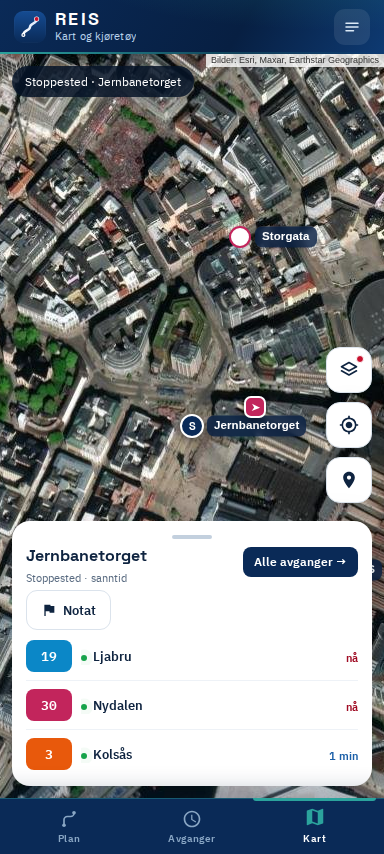
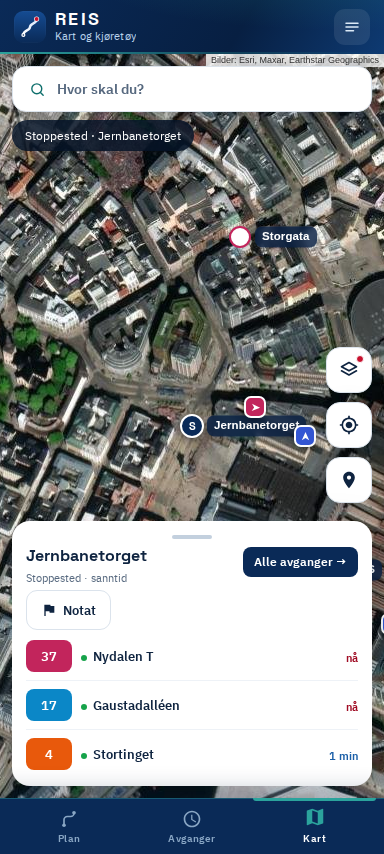
Add files via upload

diff --git a/index.html b/index.html
@@ -489,7 +489,7 @@ a{color:inherit}
 /* FIX: hintet lå på top:14px, altså rett oppå modusraden. Toppen av kartet
    stables nå etter målt høyde, på samme måte som bunnen. */
 #viewMap{--top-h:0px}
-#mapHint{position:absolute;left:50%;top:calc(12px + var(--top-h));transform:translateX(-50%);z-index:1056;
+#mapHint{position:absolute;left:50%;top:calc(12px + var(--top-h) + var(--bar-h));transform:translateX(-50%);z-index:1056;
   background:rgba(7,31,66,.86);color:#fff;font-size:12px;font-weight:600;padding:8px 14px;border-radius:999px;
   backdrop-filter:blur(6px);pointer-events:none;animation:viewIn .3s ease}
 /* Posisjonsknappen lyser når «følg meg» er på */
@@ -504,12 +504,15 @@ a{color:inherit}
 .mb-btn svg{width:17px;height:17px;flex:0 0 auto;display:block}
 .mb-btn.on{background:var(--navy);color:#fff;box-shadow:var(--sh-1)}
 .mb-btn.on svg{color:var(--tab-2)}
-#mapCtxChip{position:absolute;top:calc(12px + var(--top-h) + var(--hint-h,0px));left:12px;z-index:1040;background:var(--navy);color:#fff;font-size:12px;padding:8px 13px;border-radius:999px;box-shadow:var(--sh-2);display:flex;gap:7px;align-items:center;max-width:72%;white-space:nowrap;overflow:hidden;text-overflow:ellipsis}
+#mapCtxChip{position:absolute;top:calc(12px + var(--top-h) + var(--bar-h) + var(--hint-h));left:12px;z-index:1040;background:var(--navy);color:#fff;font-size:12px;padding:8px 13px;border-radius:999px;box-shadow:var(--sh-2);display:flex;gap:7px;align-items:center;max-width:72%;white-space:nowrap;overflow:hidden;text-overflow:ellipsis}
 #mapCtxChip b{font-family:var(--font-m)}
 /* Kartkortet, lagvelgeren og knappene lå alle forankret til bunnen med faste
    pikselverdier – derfor la de seg oppå hverandre. Nå stables de: --card-h og
    --layer-h måles i JS, og alt over regner seg ut fra dem. */
-#viewMap{--card-h:0px;--layer-h:0px;--top-h:0px;--hint-h:0px}
+/* Toppen av kartet er en stabel. Hvert element legger seg under det forrige,
+   etter MÅLT høyde – ellers havner de oppå hverandre så snart ett av dem
+   endrer størrelse eller dukker opp. */
+#viewMap{--card-h:0px;--layer-h:0px;--top-h:0px;--bar-h:0px;--hint-h:0px;--ctx-h:0px}
 .fabs{position:absolute;right:12px;z-index:1050;display:flex;flex-direction:column;gap:9px;
   /* Følger stabelen, men forlater aldri skjermen uansett hvor høye kortene blir */
   bottom:min(calc(18px + var(--card-h) + var(--layer-h)), calc(100% - 210px));
@@ -697,6 +700,34 @@ a{color:inherit}
 .sheet-x svg{width:13px;height:13px;display:block}
 .sheet-body{flex:1;min-height:0;padding-top:0}
 
+/* ---------- søk direkte på kartet ---------- */
+#mapSearchBar{position:absolute;left:12px;right:12px;z-index:1058;
+  top:calc(12px + var(--top-h));
+  display:flex;align-items:center;gap:10px;min-height:46px;padding:0 14px;
+  border-radius:14px;background:var(--card);border:1.5px solid var(--line);
+  box-shadow:0 4px 16px rgba(4,20,43,.22);text-align:left;
+  transition:transform .16s,box-shadow .2s}
+#mapSearchBar:active{transform:scale(.985)}
+.msb-ic{flex:none;display:grid;place-items:center;width:20px;height:20px;color:var(--tab)}
+.msb-ic svg{width:17px;height:17px;display:block}
+.msb-txt{flex:1;min-width:0;font-size:14px;font-weight:600;color:var(--muted);
+  white-space:nowrap;overflow:hidden;text-overflow:ellipsis}
+#mapSearchBar.filled .msb-txt{color:var(--ink)}
+:root[data-theme="dark"] .msb-ic{color:var(--tab-2)}
+
+#mapSheetBackdrop{position:absolute;inset:0;z-index:2300;background:rgba(6,20,40,.42);
+  backdrop-filter:blur(2px);opacity:0;transition:opacity .26s ease}
+#mapSheetBackdrop.open{opacity:1}
+#mapSheet{position:absolute;left:0;right:0;bottom:0;z-index:2350;max-height:88%;
+  overflow-y:auto;scrollbar-width:none;background:var(--paper);
+  border-radius:22px 22px 0 0;box-shadow:0 -14px 44px rgba(4,20,43,.42);
+  padding:0 13px calc(14px + var(--sab));
+  transform:translateY(100%);transition:transform .3s cubic-bezier(.22,1,.36,1)}
+#mapSheet.open{transform:none}
+#mapSheet .search-card{margin-top:2px}
+/* På kartet trenger vi ikke fanevelgeren – du er allerede i reisemodus */
+#mapSheet .sc-tabs{display:none}
+
 /* ---------- kartets lagvelger ---------- */
 #layerSheet{position:absolute;left:12px;right:12px;z-index:1065;background:var(--card);
   max-height:44vh;overflow-y:auto;scrollbar-width:none;
@@ -709,7 +740,7 @@ a{color:inherit}
 .ls-grid{display:grid;grid-template-columns:repeat(3,1fr);gap:7px}
 .ls-grid-4{grid-template-columns:repeat(2,1fr)}
 #stopFilterChip{position:absolute;left:12px;z-index:1041;display:flex;align-items:center;gap:7px;
-  top:calc(12px + var(--top-h) + var(--hint-h,0px));min-height:36px;padding:0 12px;border-radius:999px;
+  top:calc(12px + var(--top-h) + var(--bar-h) + var(--hint-h) + var(--ctx-h));min-height:36px;padding:0 12px;border-radius:999px;
   background:rgba(7,31,66,.86);color:#fff;font-size:12px;font-weight:600;backdrop-filter:blur(6px);
   box-shadow:0 2px 10px rgba(4,20,43,.3);animation:viewIn .28s ease}
 #stopFilterChip svg{width:14px;height:14px;display:block;flex:none}
@@ -1123,7 +1154,8 @@ a{color:inherit}
           </div>
           <!-- Ett samlet søkekort: modusvelger, Fra/Til som rader, og handlingene
                inne i samme flate. Færre kanter å lese enn to separate bokser. -->
-          <section class="search-card" aria-label="Søk">
+          <div id="cardHome"></div>
+          <section class="search-card" id="searchCard" aria-label="Søk">
             <div class="sc-tabs" role="tablist">
               <button role="tab" data-sc="trip" class="on" aria-selected="true">Finn reise</button>
               <button role="tab" data-sc="stop" aria-selected="false">Se avganger</button>
@@ -1230,6 +1262,16 @@ a{color:inherit}
       <div id="mapHint" hidden>Zoom inn for å se holdeplasser</div>
       <button id="stopFilterChip" hidden></button>
       <div id="mapCtxChip">Kart – utforsk området</div>
+      <!-- Samme søkekort som i Plan, flyttet hit ved behov. Ett kort, to hjem –
+           da kan de ikke komme i utakt, og all logikk er delt. -->
+      <button id="mapSearchBar" aria-label="Søk etter reise">
+        <span class="msb-ic"></span><span class="msb-txt">Hvor skal du?</span>
+      </button>
+      <div id="mapSheetBackdrop" hidden></div>
+      <aside id="mapSheet" hidden aria-label="Søk på kartet">
+        <div class="sheet-grip"></div>
+        <div id="mapSheetSlot"></div>
+      </aside>
       <div class="fabs">
         <button class="fab" id="fabLayers" aria-label="Kartlag og visning"><span class="fab-dot"></span></button>
         <button class="fab" id="fabLocate" aria-label="Min posisjon"></button>
@@ -1534,6 +1576,7 @@ $('#addIc').innerHTML=IC.plus; $('#commHereIc').innerHTML=IC.locate;
 $('#btnResBack').innerHTML=IC.chevL; $('#btnDetBack').innerHTML=IC.chevL;
 $('#depSwitchIc').innerHTML=IC.search; $('#scNearIc').innerHTML=IC.locate;
 $('#fabLocate').innerHTML=IC.locate; $('#fabSetB').innerHTML=IC.pin;
+$('#mapSearchBar').querySelector('.msb-ic').innerHTML=IC.search;
 $('#btnMore').innerHTML=IC.menu;
 $('#fabLayers').insertAdjacentHTML('afterbegin',IC.layers);
 $('#moreClose').innerHTML=IC.x;
@@ -1693,7 +1736,8 @@ document.addEventListener('touchend',e=>{
   lastTouchEnd=now;
 },{passive:false});
 
-document.addEventListener('keydown',e=>{if(e.key==='Escape'){closeModal();closeWakeFlash();if(typeof closeMore==='function'&&!$('#moreSheet').hidden)closeMore()}});
+document.addEventListener('keydown',e=>{if(e.key==='Escape'){closeModal();closeWakeFlash();if(typeof closeMore==='function'&&!$('#moreSheet').hidden)closeMore();
+  if(typeof lukkKartsøk==='function')lukkKartsøk()}});
 
 const MODE={foot:{l:'Gange',hex:'#64748B'},tram:{l:'Trikk',hex:'#0B87C7'},metro:{l:'T-bane',hex:'#E8590C'},bus:{l:'Buss',hex:'#C2255C'},rail:{l:'Tog',hex:'#3457D5'},water:{l:'Båt',hex:'#0C8599'},coach:{l:'Ekspress',hex:'#8447C9'},air:{l:'Fly',hex:'#5C6B7A'},funicular:{l:'Bane',hex:'#5C6B7A'},lift:{l:'Gondol',hex:'#5C6B7A'},cableway:{l:'Kabelbane',hex:'#5C6B7A'},trolleybus:{l:'Buss',hex:'#C2255C'},monorail:{l:'Bane',hex:'#5C6B7A'},taxi:{l:'Taxi',hex:'#8A8F98'}};
 const modeOf=leg=>{const m=(leg.line&&leg.line.transportMode)||leg.mode;return MODE[m]?m:'foot'};
@@ -1721,7 +1765,7 @@ if(matchMedia('(prefers-color-scheme: dark)').addEventListener)matchMedia('(pref
    allerede åpen side beholder gammel HTML og JS selv om en ny service worker
    er installert. Nå oppdages det, og du får velge når. */
 /* Denne må holdes lik VERSION i sw.js. Byggeskriptet sjekker at de stemmer. */
-const APP_VERSION='v6.4.0';
+const APP_VERSION='v6.5.0';
 let swReg=null,waitingSW=null,reloading=false,byttetSelv=false;
 
 /* Service worker-livssyklusen er lunefull: en ny versjon kan bli hengende i
@@ -2563,6 +2607,7 @@ function switchTab(name,dir){
   currentTab=name;
   $('#app').dataset.tab=name;
   saveLS('lastTab',name);
+  if(name!=='map'&&kortPåKart)lukkKartsøk();
   setTopContext(name);
   navBtns.forEach(t=>{const on=t.dataset.tab===name;t.classList.toggle('active',on);t.setAttribute('aria-selected',String(on))});positionNav();
   Object.entries(views).forEach(([k,v])=>v.classList.toggle('active',k===name));
@@ -2700,6 +2745,7 @@ function applyState(st){
 }
 window.addEventListener('popstate',e=>{
   if($('#wakeFlash').classList.contains('show')){closeWakeFlash();return}
+  if(kortPåKart){popping=true;lukkKartsøk();popping=false;return}
   if(moreOpen()&&!(e.state&&e.state.reis&&e.state.reis.more)){popping=true;closeMore();popping=false;return}
   const st=e.state&&e.state.reis;
   if(st)applyState(st);
@@ -2750,14 +2796,14 @@ function bindPull(padSel,oppdater){
    Rundgang: fra Lagret sveiper du videre til Plan, og motsatt vei fra Plan til
    Lagret – du treffer aldri en vegg. Kartet får panorere i fred; der starter
    sveipet bare fra ytterkantene av skjermen. */
-const SWIPE_BLOCK='input,textarea,select,.dep-stop-chips,#modeBar,#ac,.leaflet-container,.modal-card,#mapCard,#moreSheet,#layerSheet';
+const SWIPE_BLOCK='input,textarea,select,.dep-stop-chips,#modeBar,#ac,.leaflet-container,.modal-card,#mapCard,#moreSheet,#layerSheet,#mapSheet';
 /* MIN_DX hindrer at en rask, bitteliten bevegelse – et skjelvent trykk – regnes
    som et sveip. Uten den holdt det med høy fart alene. */
 const EDGE=32, MIN_DX=40, THRESHOLD=64, FLICK=.45;
 let sw=null;
 function swipeStart(e){
   if(e.touches.length!==1)return;
-  if($('#modal').classList.contains('open')||$('#ac').classList.contains('open')||moreOpen())return;
+  if($('#modal').classList.contains('open')||$('#ac').classList.contains('open')||moreOpen()||kortPåKart)return;
   const t=e.touches[0],r=$('#app').getBoundingClientRect();
   /* Faller tilbake på vindusbredden hvis oppsettet ikke har målt appen ennå. */
   const left=r.width?r.left:0, right=r.width?r.right:(window.innerWidth||0);
@@ -3525,6 +3571,7 @@ function renderStops(){
     box.append(row);
   });
   $('#btnAddStop').disabled=state.stops.length>=4;
+  if(typeof oppdaterKartsøk==='function')oppdaterKartsøk();
   /* Tegner vi midt i en bytteanimasjon, må de nye feltene fortsette der de
      gamle slapp – ellers hopper teksten synlig på plass. */
   if(midtIBytte)$$('#stops .stop-field').forEach(f=>{
@@ -3726,6 +3773,9 @@ function resError(e){
    reise til et annet sted enn det som står i skjemaet. */
 let tripSeq=0;
 async function findJourney(fromMap=false){
+  /* Søker du mens kortet står på kartet, skal du bli der og se ruten tegnet –
+     ikke sendes til en resultatliste i en annen fane. */
+  if(kortPåKart)fromMap=true;
   const meg=++tripSeq;
   const btn=$('#btnSearch');btn.classList.add('loading');btn.disabled=true;
   try{
@@ -3754,6 +3804,7 @@ async function findJourney(fromMap=false){
     catch(err){if(meg!==tripSeq)return;
       if(fromMap){toast('Kunne ikke hente reiser: '+err.message,'err',err.raw);applyMapContext()}else resError(err);return}
     if(meg!==tripSeq)return;                 // et nyere søk har overtatt
+    if(kortPåKart)lukkKartsøk();
     state.results=patterns;
     state.fare=patterns.length?estimateFare(patterns[0].distance):null;
     if(!fromMap){renderResults();if(patterns.length){pushRecent(from,to,vias);loadCorridorSights(patterns)}else toast('Ingen reiser funnet – prøv andre stopp eller tidspunkt','err')}
@@ -4196,6 +4247,48 @@ function renderHealth(rows){
       <span class="hr-ic">${r.ok?IC.check:IC.alert}</span>
       <span class="hr-txt"><b>${esc(r.navn)}</b><span>${esc(r.melding)}</span></span></div>`).join('');
 }
+
+/* ================= søk uten å bytte fane =================
+   Før måtte du søke i Plan og så bytte til Kart for å se ruten. Nå flyttes
+   selve søkekortet inn på kartet ved behov – samme DOM-element, så all logikk,
+   alle lyttere og all tilstand er delt. To kopier ville uunngåelig kommet i
+   utakt; ett element kan ikke det. */
+let kortPåKart=false;
+function oppdaterKartsøk(){
+  const bar=$('#mapSearchBar');if(!bar)return;
+  const a=state.stops[0],b=state.stops[state.stops.length-1];
+  const txt=bar.querySelector('.msb-txt');
+  if(a&&a.name&&b&&b.name){bar.classList.add('filled');txt.textContent=`${a.name} → ${b.name}`}
+  else if(b&&b.name){bar.classList.add('filled');txt.textContent=`Til ${b.name}`}
+  else{bar.classList.remove('filled');txt.textContent='Hvor skal du?'}
+}
+function åpneKartsøk(){
+  if(kortPåKart)return;
+  const kort=$('#searchCard');if(!kort)return;
+  setSearchMode('trip');
+  $('#mapSheetSlot').appendChild(kort);        // flytter, kopierer ikke
+  kortPåKart=true;
+  $('#mapSheetBackdrop').hidden=false;$('#mapSheet').hidden=false;
+  requestAnimationFrame(()=>{
+    $('#mapSheet').classList.add('open');$('#mapSheetBackdrop').classList.add('open');
+    placeSwap();
+  });
+  pushHistory();
+}
+function lukkKartsøk(){
+  if(!kortPåKart)return;
+  const sh=$('#mapSheet'),bd=$('#mapSheetBackdrop');
+  sh.classList.remove('open');bd.classList.remove('open');
+  kortPåKart=false;
+  setTimeout(()=>{
+    sh.hidden=true;bd.hidden=true;
+    const kort=$('#searchCard'),hjem=$('#cardHome');
+    if(kort&&hjem&&hjem.parentElement)hjem.parentElement.insertBefore(kort,hjem.nextSibling);
+    placeSwap();
+  },260);
+}
+$('#mapSearchBar').onclick=åpneKartsøk;
+$('#mapSheetBackdrop').onclick=lukkKartsøk;
 
 /* ================= finn kjøretøyet =================
    «Hvor er bussen min nå?» er spørsmålet folk stiller mens de venter. Vi har
@@ -4679,6 +4772,11 @@ function measureStackNow(){
   vm.style.setProperty('--top-h',th+'px');
   const hh=(hint&&!hint.hidden)?hint.offsetHeight+8:0;
   vm.style.setProperty('--hint-h',hh+'px');
+  const bar=$('#mapSearchBar'),ctx=$('#mapCtxChip');
+  const bh=(bar&&!bar.hidden&&bar.offsetHeight)?bar.offsetHeight+8:0;
+  vm.style.setProperty('--bar-h',bh+'px');
+  const ctxH=(ctx&&ctx.offsetHeight&&getComputedStyle(ctx).display!=='none')?ctx.offsetHeight+8:0;
+  vm.style.setProperty('--ctx-h',ctxH+'px');
 }
 if(window.ResizeObserver){
   const ro=new ResizeObserver(()=>measureStack());

diff --git a/sw.js b/sw.js
@@ -5,7 +5,7 @@
      kartfliser → cache-first med tak på antall fliser
      API-er     → network-first med cachet fallback (tunnel/dårlig dekning)
 */
-const VERSION = 'v6.4.0';
+const VERSION = 'v6.5.0';
 const SHELL_CACHE = `reis-shell-${VERSION}`;
 const TILE_CACHE = `reis-tiles-${VERSION}`;
 const DATA_CACHE = `reis-data-${VERSION}`;

diff --git a/ENDRINGER.md b/ENDRINGER.md
@@ -2,7 +2,7 @@
 
 Alt under er verifisert mot Entur live 31. juli 2026, ikke gjettet.
 `node test-live.js` kjører appens egne spørringer mot API-et (15 tester),
-`node test-dom.js` tester grensesnitt og logikk i jsdom (252 tester),
+`node test-dom.js` tester grensesnitt og logikk i jsdom (259 tester),
 `python3 shot.py`, `measure.py`, `swipe_test.py`, `fill_test.py`, `qt_test.py`,
 `sec_test.py`, `overlap_test.py`, `perf_test.py`, `font_test.py`, `a11y.py` og
 `polish_test.py`, `plan_test.py`, `soak.py`, `regress_map.py` og `update_test.py`
@@ -164,6 +164,37 @@ Nå:
 
 Testen booter appen i jsdom **uten** Leaflet i det hele tatt og bekrefter at den
 starter, at Plan-fanen tegnes, og at alle kartfunksjonene har vakt.
+
+---
+
+## Søk der du er – ett kort, to hjem
+
+Før måtte du søke i Plan og deretter bytte til Kart for å se din egen rute. To
+skjermer for én handling.
+
+Kartet har nå sitt eget søkefelt øverst. Trykker du på det, glir **det samme
+søkekortet** opp fra bunnen – ikke en kopi, men bokstavelig talt samme
+DOM-element, flyttet dit. Søker du derfra, tegnes ruten på kartet og arket
+lukker seg. Du bytter aldri fane.
+
+At det er ett element, og ikke to, er hele poenget. To kopier ville uunngåelig
+kommet i utakt: du fyller inn i den ene, den andre husker noe annet. Med ett
+element deles all tilstand, alle lyttere og all logikk automatisk – det *kan*
+ikke bli inkonsistent.
+
+- Feltet viser hvilken reise som er tegnet: «Oslo S → Majorstuen».
+- Fanevelgeren skjules på kartet – du er allerede i reisemodus.
+- Kortet flytter seg hjem av seg selv når du forlater kartfanen.
+- Tilbakeknapp, Escape og fanebytte lukker arket. Sveip er sperret mens det er oppe.
+
+### Gjennomgangen fanget tre nye overlapp
+Da jeg utvidet kollisjonstesten med de nye elementene, viste det seg at
+søkefeltet, kontekst-chipen og stoppfilter-merket alle lå på samme sted –
+**7 380 px² overlapp** mellom to av dem. De var lagt til hver for seg, hver med
+sin egen «rett under toppen»-regel.
+
+Toppen av kartet er nå én målt stabel: modusrad → søkefelt → hint → kontekst →
+filter. Etter rettelsen: **0 overlapp i alle 15 tilstander.**
 
 ---
 
